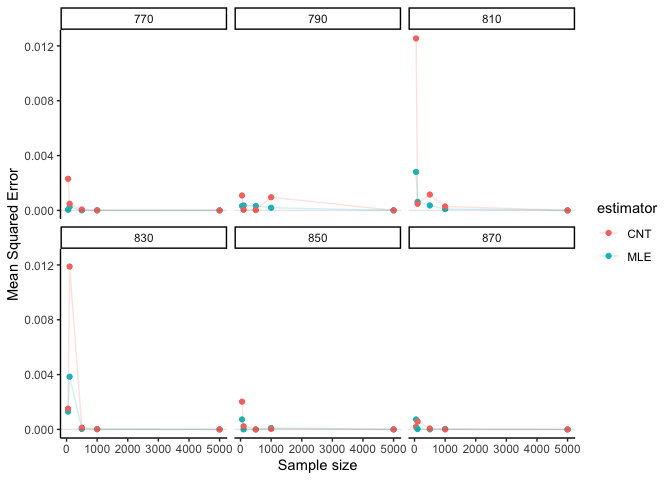
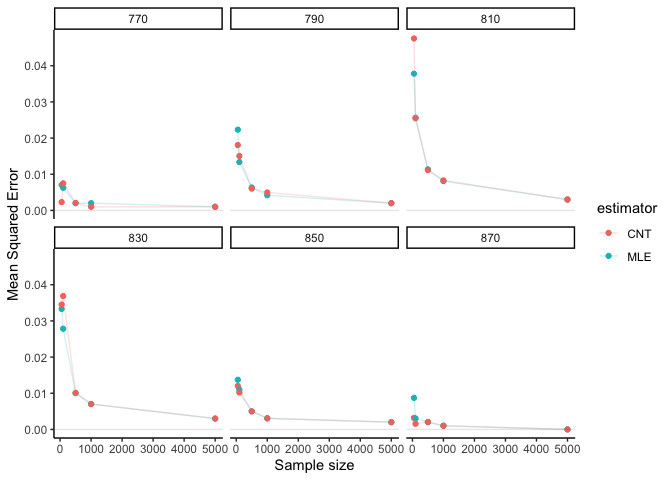
change MSE

diff --git a/README.md b/README.md
@@ -159,17 +159,17 @@ bias_sim %>%
 #### MSE
 
 ``` r
-mse_sim <- results[, .(mean_mse = mean((prob - trueProb)^2)), by = c("n", "param_mu", "estimator")]
+mse_sim <- results[, .(mean_mse = asymptotic_var+ mean((prob - trueProb)^2)), by = c("n", "param_mu", "estimator")]
 head(mse_sim)
 ```
 
     ##     n param_mu estimator mean_mse
-    ## 1: 50      770       MLE 0.000049
+    ## 1: 50      770       MLE 0.007049
     ## 2: 50      770       CNT 0.002304
-    ## 3: 50      790       MLE 0.000324
-    ## 4: 50      790       CNT 0.001089
-    ## 5: 50      810       MLE 0.002809
-    ## 6: 50      810       CNT 0.012544
+    ## 3: 50      790       MLE 0.022324
+    ## 4: 50      790       CNT 0.018089
+    ## 5: 50      810       MLE 0.037809
+    ## 6: 50      810       CNT 0.047544
 
 ``` r
 # Plot of MSE, facet by beta
